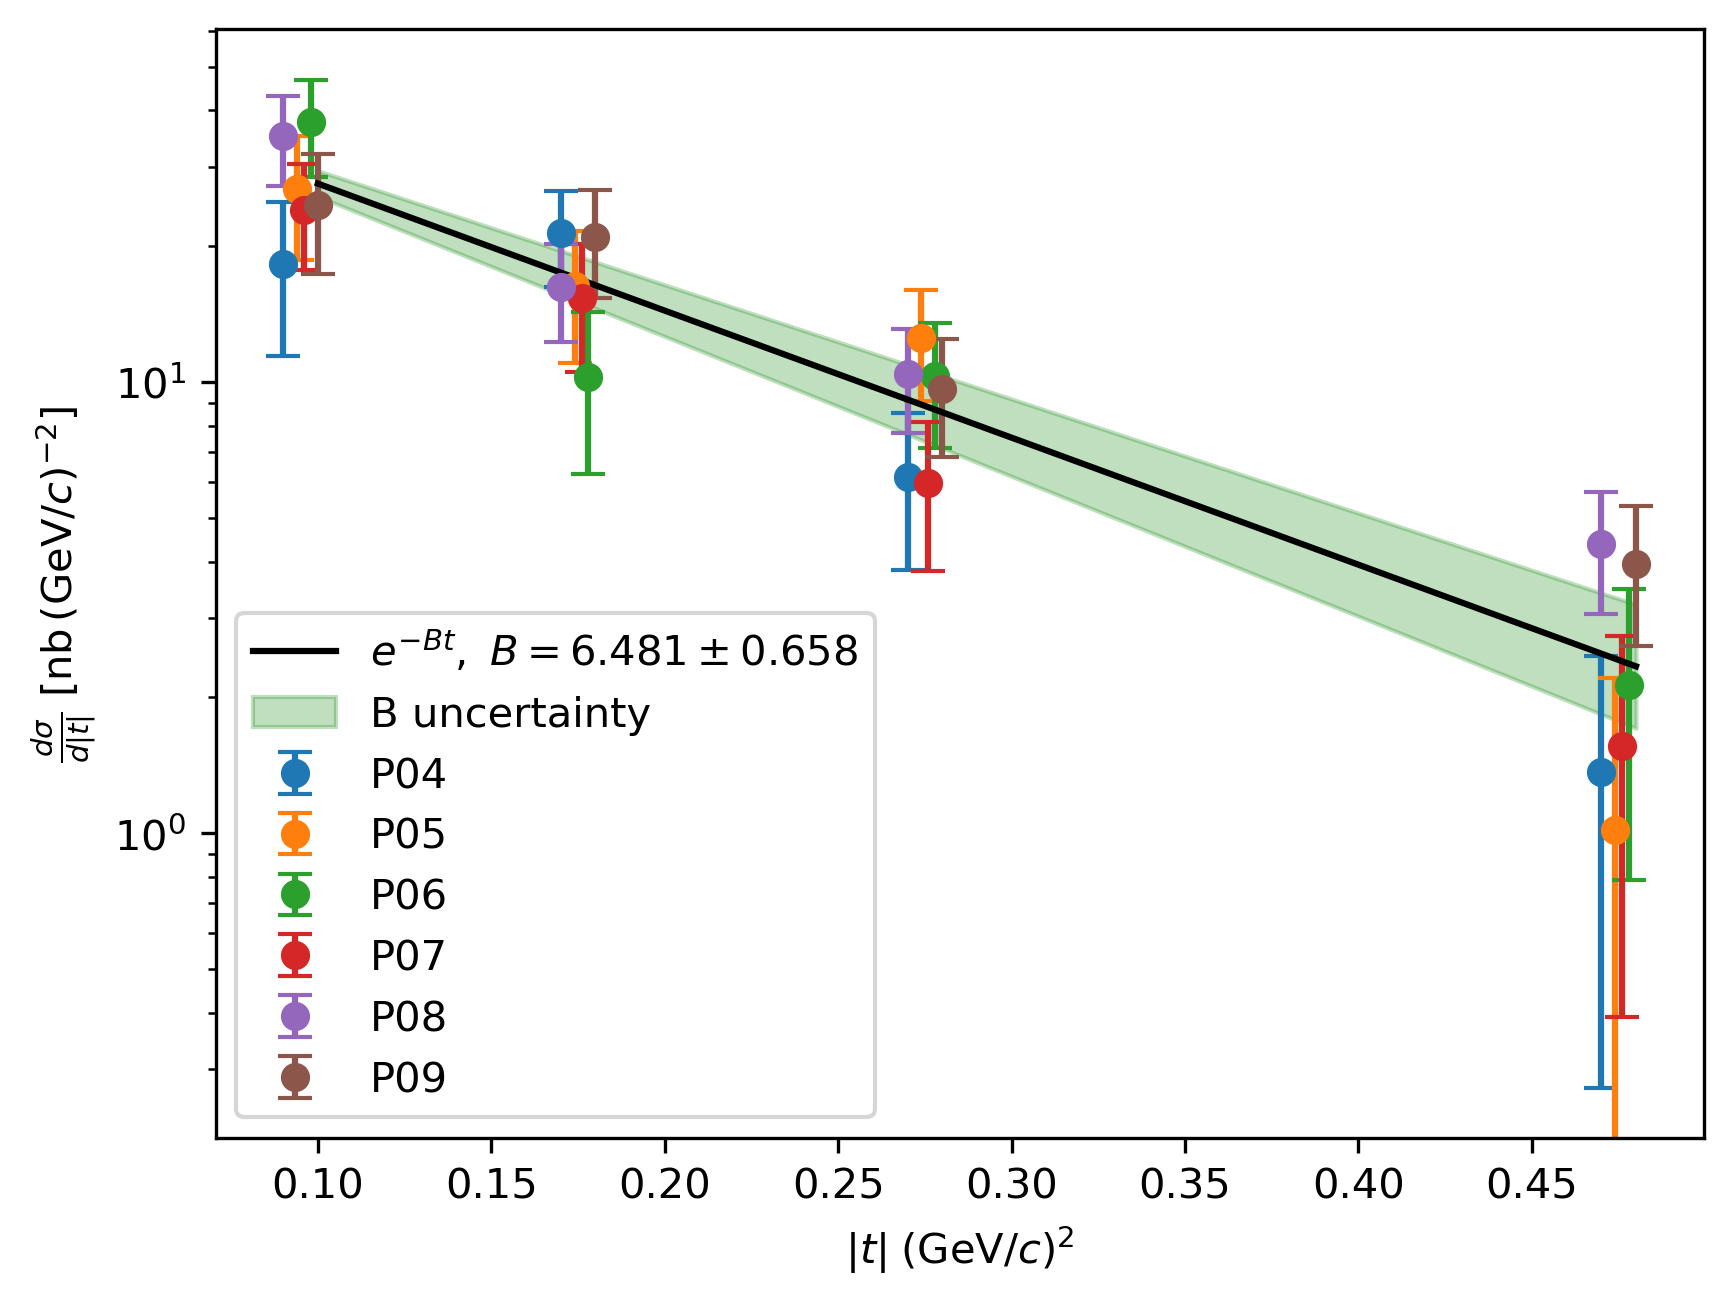
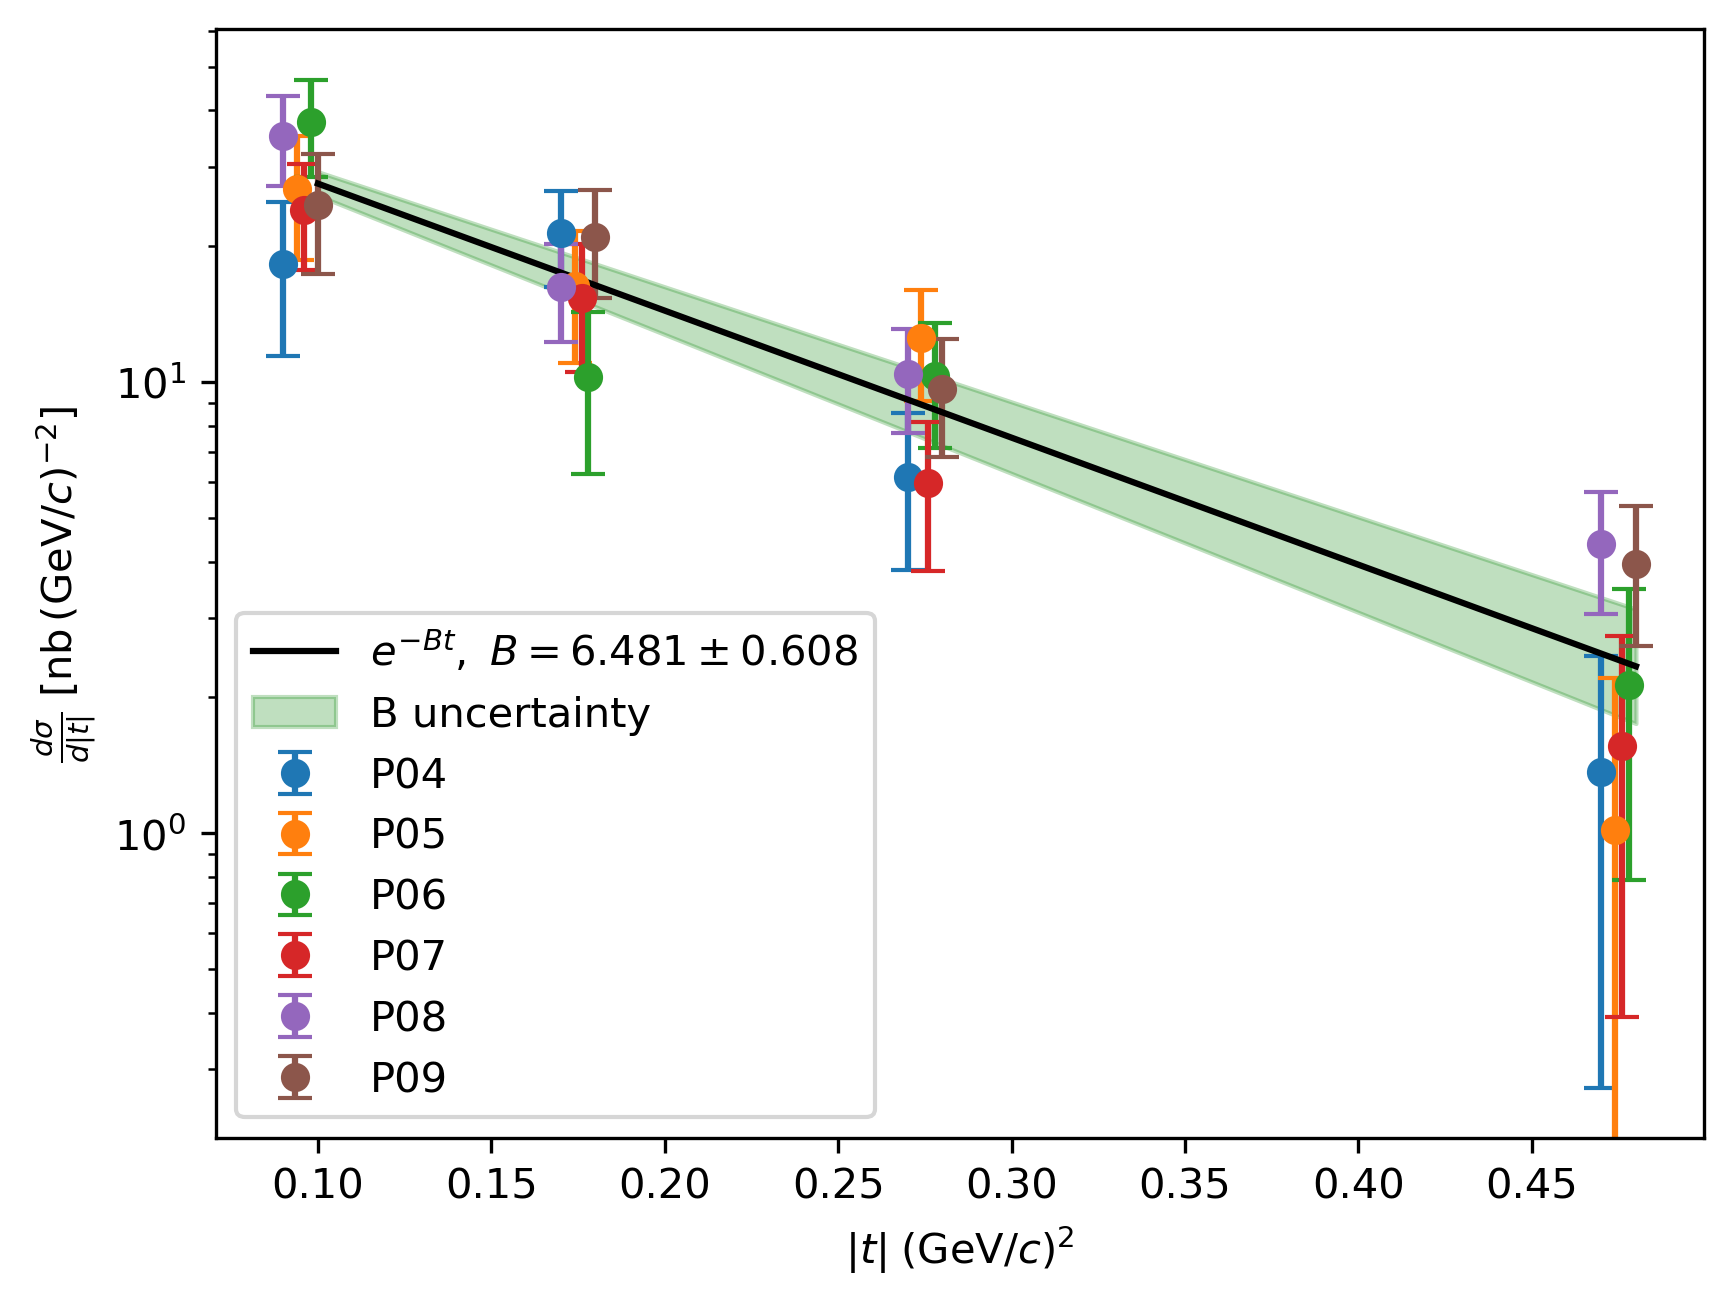
fixed root likelihood code

diff --git a/root_likelihood.py b/root_likelihood.py
@@ -110,7 +110,7 @@ def fit_variance_root(t_edges, dsigma_dt_err, debug=False):
 
   for i in range(len(dsigma_dt_err)):
     delta_t = t_edges[i+1] - t_edges[i]
-    sigma_t_error[i] = dsigma_dt_err[i] * delta_t**2
+    sigma_t_error[i] = dsigma_dt_err[i]**2 * delta_t**2
   
   if debug:
     print("fit_variance_root sigma_t_error:", sigma_t_error)
